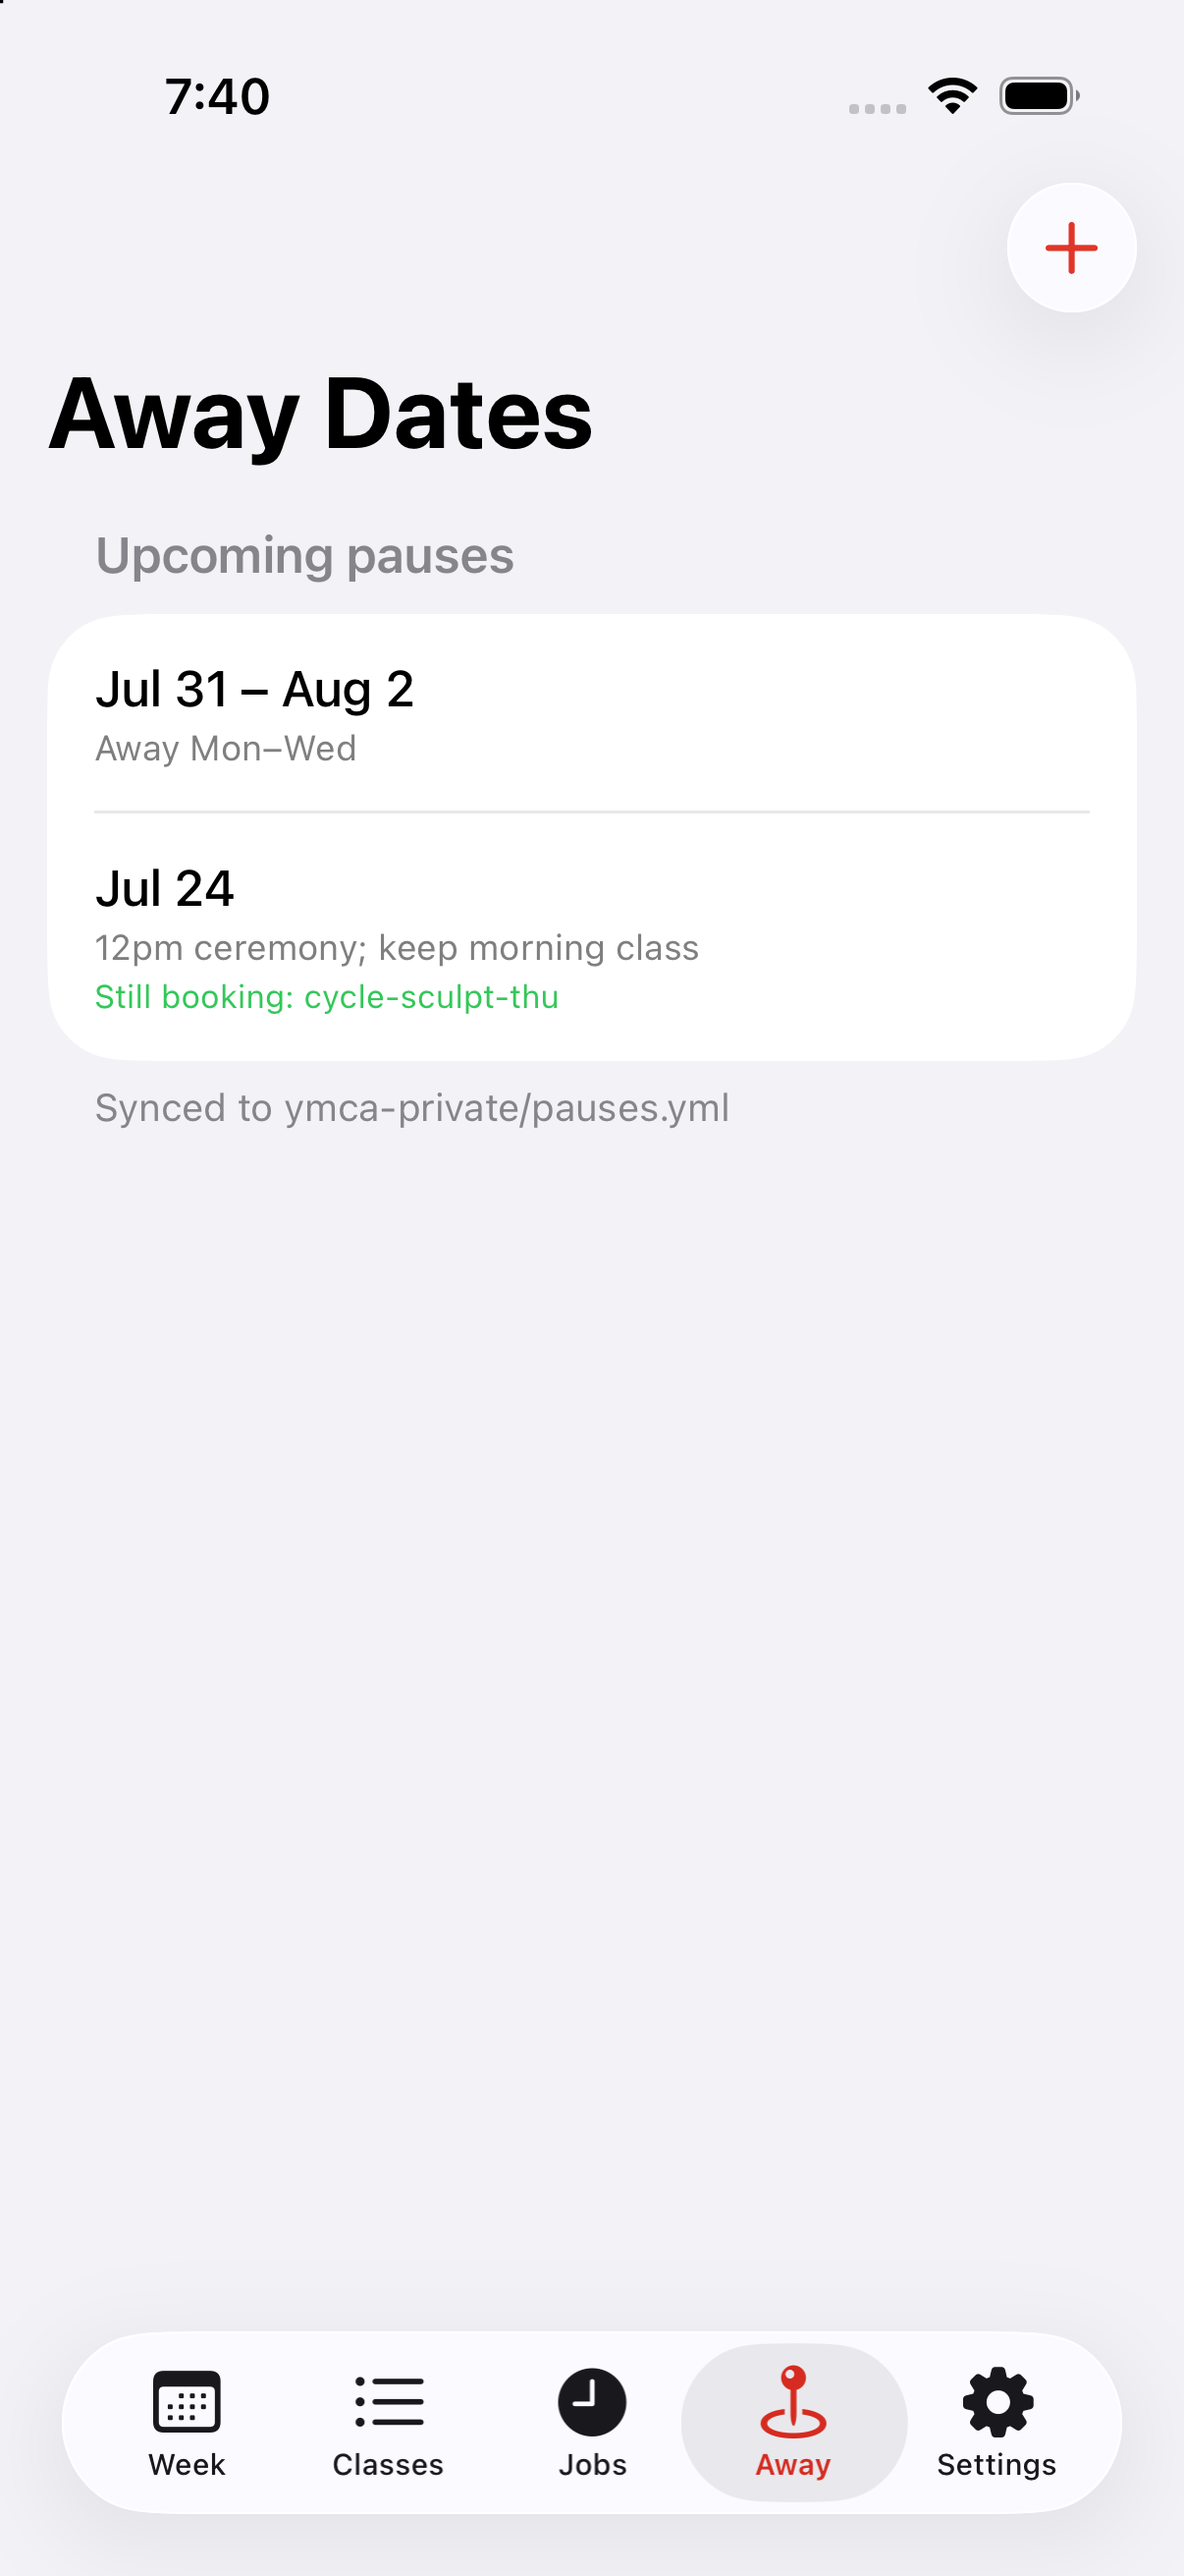
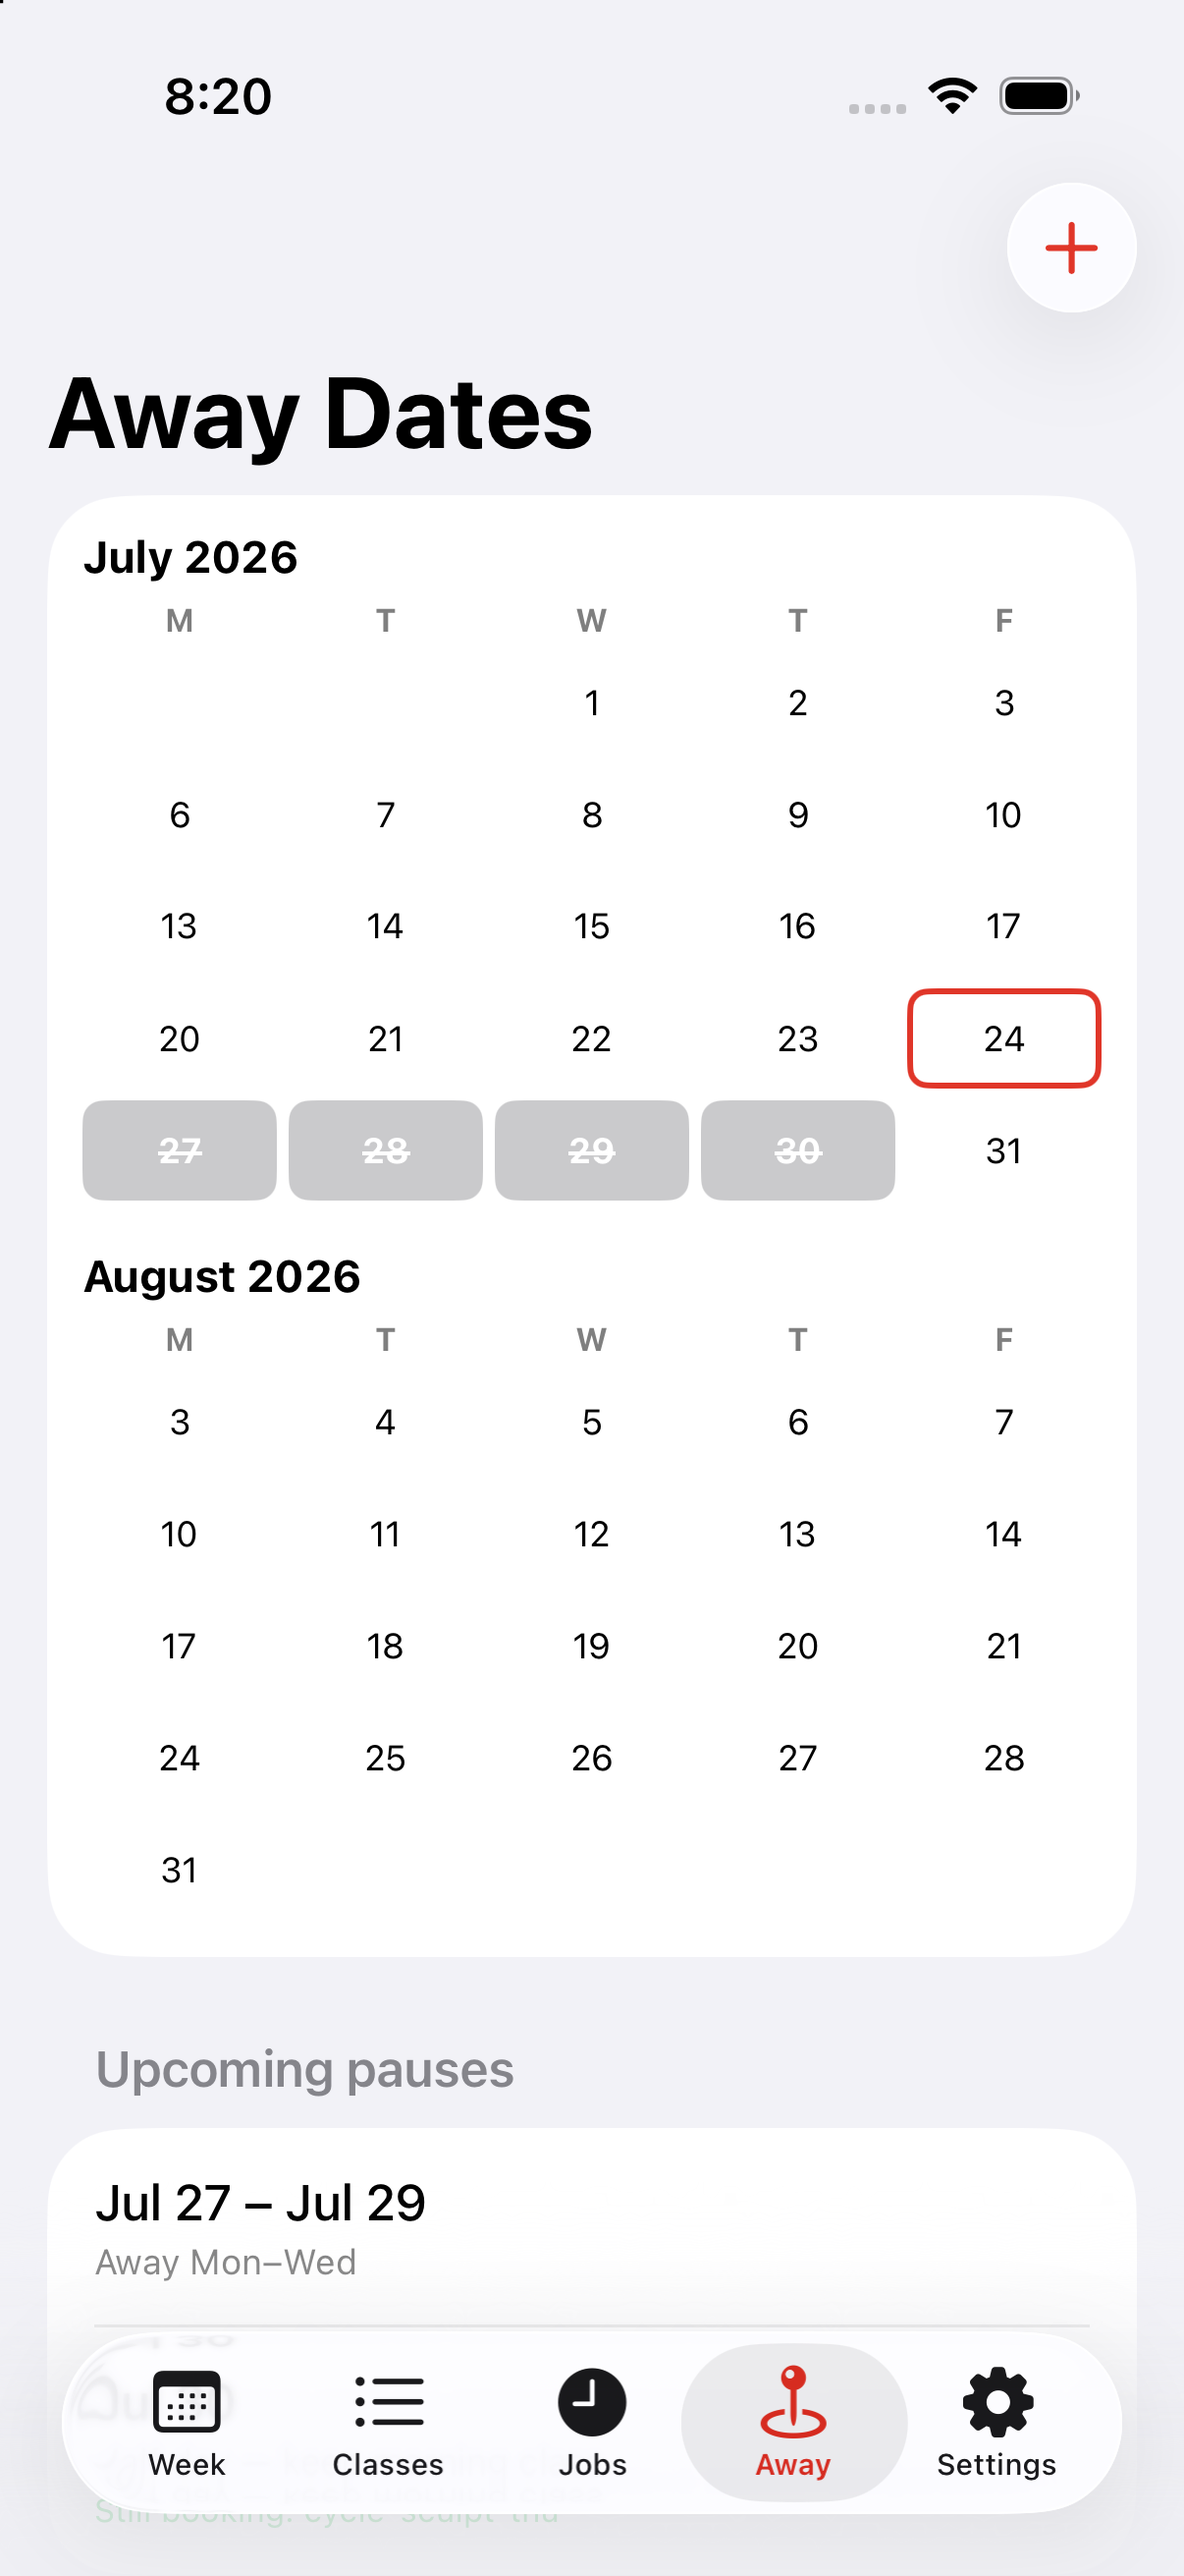
Away calendar: weekdays only, gray 'out' days; refresh screenshots
- Month grid drops Sat/Sun columns (Mon–Fri, like the rest of the app).
- Pause days now read as 'out': gray fill + struck-through number (was blue,
  which looked like a positive state); today keeps the accent outline.
- Tidy sample pauses for coherent previews; regenerate all four README
  screenshots.

diff --git a/ios/YmcaAutobook/Features/AwayView.swift b/ios/YmcaAutobook/Features/AwayView.swift
@@ -87,19 +87,19 @@ private struct MonthGrid: View {
         return cal.date(from: cal.dateComponents([.year, .month], from: base)) ?? base
     }
 
-    /// Leading blanks (Mon-based) + each day of the month.
+    /// Weekdays only (Mon–Fri): leading blanks to the first weekday's column,
+    /// then each Mon–Fri day of the month (weekend days omitted).
     private var cells: [Date?] {
         guard let range = cal.range(of: .day, in: .month, for: monthStart) else { return [] }
-        let firstWeekday = cal.component(.weekday, from: monthStart) // 1=Sun..7=Sat
-        let lead = (firstWeekday + 5) % 7 // Mon->0 … Sun->6
-        var out: [Date?] = Array(repeating: nil, count: lead)
-        for d in range {
-            out.append(cal.date(byAdding: .day, value: d - 1, to: monthStart))
-        }
-        return out
+        let weekdays = range
+            .compactMap { cal.date(byAdding: .day, value: $0 - 1, to: monthStart) }
+            .filter { (2...6).contains(cal.component(.weekday, from: $0)) } // Mon(2)…Fri(6)
+        guard let first = weekdays.first else { return [] }
+        let lead = (cal.component(.weekday, from: first) + 5) % 7 // Mon->0 … Fri->4
+        return Array(repeating: nil, count: lead) + weekdays.map(Optional.init)
     }
 
-    private let cols = Array(repeating: GridItem(.flexible(), spacing: 4), count: 7)
+    private let cols = Array(repeating: GridItem(.flexible(), spacing: 4), count: 5)
 
     var body: some View {
         VStack(spacing: 6) {
@@ -107,29 +107,37 @@ private struct MonthGrid: View {
                 .font(.subheadline.weight(.bold))
                 .frame(maxWidth: .infinity, alignment: .leading)
             LazyVGrid(columns: cols, spacing: 4) {
-                ForEach(["M", "T", "W", "T", "F", "S", "S"], id: \.self) { d in
+                ForEach(Array(["M", "T", "W", "T", "F"].enumerated()), id: \.offset) { _, d in
                     Text(d).font(.caption2.weight(.bold)).foregroundStyle(.secondary)
                 }
                 ForEach(Array(cells.enumerated()), id: \.offset) { _, date in
                     if let date {
-                        let away = isAway(date)
-                        let today = cal.isDateInToday(date)
-                        Text("\(cal.component(.day, from: date))")
-                            .font(.caption.weight(away ? .bold : .regular))
-                            .frame(maxWidth: .infinity, minHeight: 30)
-                            .background(away ? Theme.weekDivider : .clear,
-                                        in: RoundedRectangle(cornerRadius: 7))
-                            .foregroundStyle(away ? .white : .primary)
-                            .overlay(
-                                RoundedRectangle(cornerRadius: 7)
-                                    .strokeBorder(today ? Theme.accent : .clear, lineWidth: 2)
-                            )
+                        dayCell(date)
                     } else {
-                        Color.clear.frame(minHeight: 30)
+                        Color.clear.frame(minHeight: 34)
                     }
                 }
             }
         }
+    }
+
+    @ViewBuilder
+    private func dayCell(_ date: Date) -> some View {
+        let away = isAway(date)
+        let today = cal.isDateInToday(date)
+        ZStack {
+            RoundedRectangle(cornerRadius: 7)
+                .fill(away ? Theme.away.opacity(0.45) : Color.clear)
+            Text("\(cal.component(.day, from: date))")
+                .font(.caption.weight(away ? .bold : .regular))
+                .strikethrough(away, color: .white)
+                .foregroundStyle(away ? .white : .primary)
+        }
+        .frame(maxWidth: .infinity, minHeight: 34)
+        .overlay(
+            RoundedRectangle(cornerRadius: 7)
+                .strokeBorder(today ? Theme.accent : .clear, lineWidth: 2)
+        )
     }
 }
 

diff --git a/ios/YmcaAutobook/Support/SampleData.swift b/ios/YmcaAutobook/Support/SampleData.swift
@@ -52,7 +52,7 @@ enum SampleData {
     ]
 
     static let awayNotes: [(offsetFromThisMon: Int, days: Int, note: String, except: [String])] = [
-        (11, 3, "Away Mon–Wed", []),
-        (4, 1, "12pm ceremony; keep morning class", ["cycle-sculpt-thu"]),
+        (7, 3, "Away Mon–Wed", []),
+        (10, 1, "Half day — keep morning class", ["cycle-sculpt-thu"]),
     ]
 }
